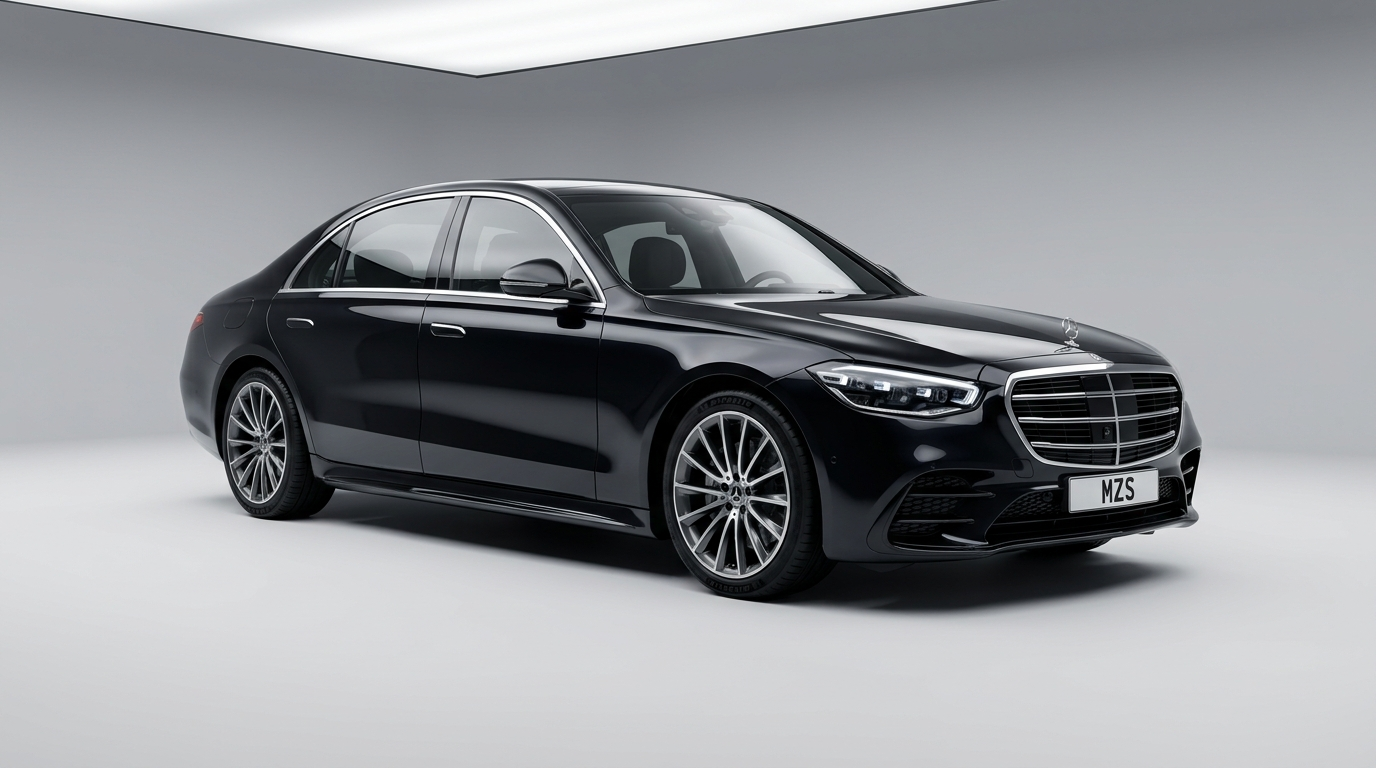
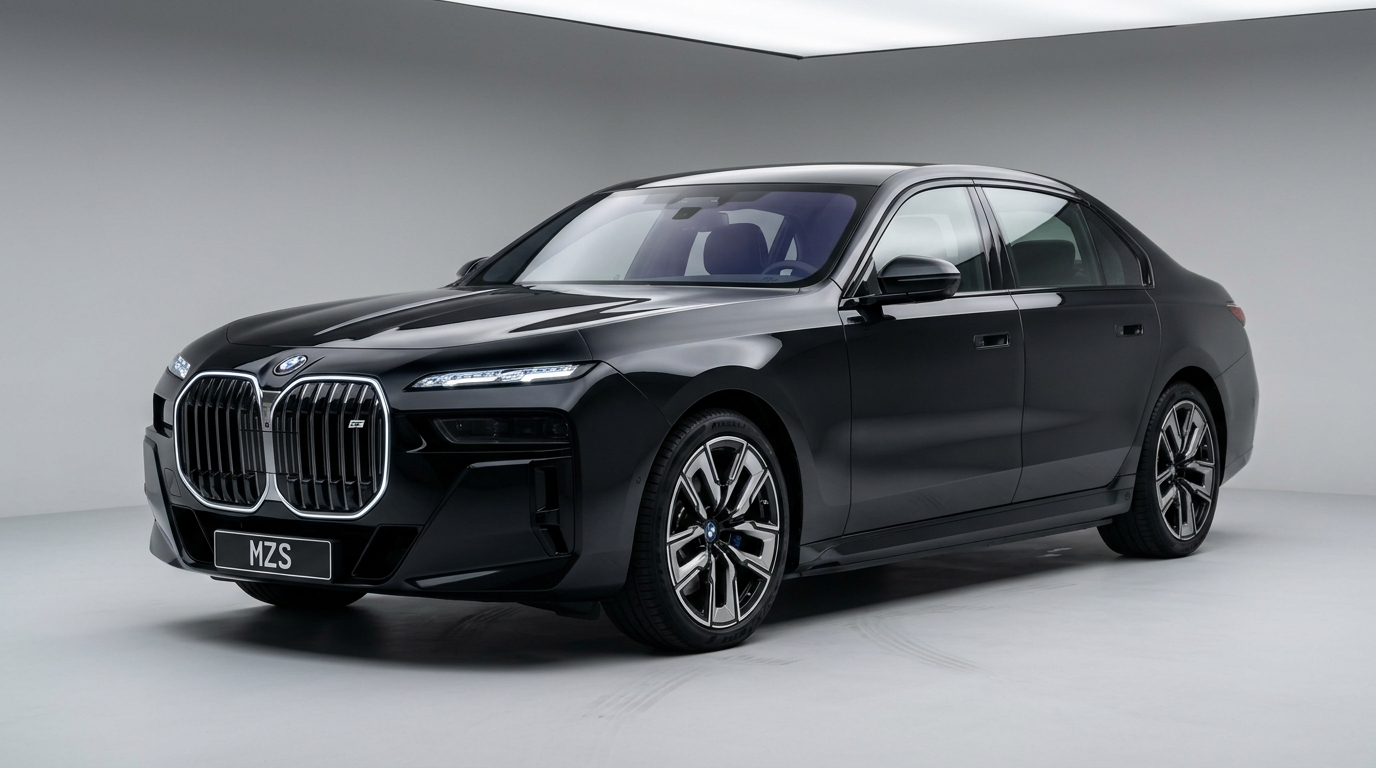
feat(fleet): replace Mercedes with 2026 BMW i7 on First Class across service classes, modals, and limousine pages

diff --git a/src/pages/LimousineServicePage.tsx b/src/pages/LimousineServicePage.tsx
@@ -15,7 +15,7 @@ export const LimousineServicePage: React.FC<LimousineServicePageProps> = ({ onSe
   const limoFaqs = [
     {
       q: 'What is considered a luxury limousine service with MZS Executive Chauffeurs?',
-      a: 'At MZS Executive Chauffeurs, limousine service means pristine executive sedans (such as the Mercedes-Benz S-Class, BMW 7 Series, Audi A8) and spacious luxury SUVs (Cadillac Escalade, Lincoln Navigator) driven by commercially certified chauffeurs in tailored business suits, rather than stretched novelty limousines.'
+      a: 'At MZS Executive Chauffeurs, limousine service means pristine executive sedans (such as the BMW i7, BMW 7 Series, Audi A8) and spacious luxury SUVs (Cadillac Escalade, Lincoln Navigator) driven by commercially certified chauffeurs in tailored business suits, rather than stretched novelty limousines.'
     },
     {
       q: 'How far in advance can I book a limousine?',
@@ -52,10 +52,10 @@ export const LimousineServicePage: React.FC<LimousineServicePageProps> = ({ onSe
             First-Class Flagship Mobility
           </span>
           <h1 className="text-4xl sm:text-6xl lg:text-7xl font-serif font-normal text-white mb-6 leading-[1.08] tracking-tight">
-            Luxury Limo Service across the United States
+            Luxury Limo Service &amp; Chauffeur Mobility
           </h1>
           <p className="text-lg sm:text-xl text-gray-200 max-w-2xl mx-auto mb-10 font-light leading-relaxed">
-            Mercedes-Benz S-Class, BMW 7 Series, Cadillac Escalade, and flagship prestige vehicles for distinguished arrivals across the USA.
+            BMW i7, BMW 7 Series, Cadillac Escalade, and flagship prestige vehicles for distinguished arrivals across New York and the Northeast corridor.
           </p>
 
           <BookingWidget onSearch={onSearch} />

diff --git a/src/pages/PartnersPage.tsx b/src/pages/PartnersPage.tsx
@@ -12,7 +12,7 @@ export const PartnersPage: React.FC<PartnersPageProps> = ({ onNavigate }) => {
   const [email, setEmail] = useState('');
   const [phone, setPhone] = useState('');
   const [city, setCity] = useState('');
-  const [vehicle, setVehicle] = useState('Mercedes-Benz S-Class');
+  const [vehicle, setVehicle] = useState('BMW i7');
   const [openFaq, setOpenFaq] = useState<number | null>(0);
 
   const handleSubmit = (e: React.FormEvent) => {
@@ -276,7 +276,7 @@ export const PartnersPage: React.FC<PartnersPageProps> = ({ onNavigate }) => {
                     onChange={(e) => setVehicle(e.target.value)}
                     className="w-full px-4 py-3 rounded-xl border border-gray-300 focus:outline-none focus:border-[#0066FF] text-sm bg-white"
                   >
-                    <option value="Mercedes-Benz S-Class">Mercedes-Benz S-Class</option>
+                    <option value="BMW i7">BMW i7</option>
                     <option value="Mercedes-Benz E-Class">Mercedes-Benz E-Class</option>
                     <option value="Cadillac Escalade ESV">Cadillac Escalade ESV / Luxury SUV</option>
                     <option value="Lincoln Navigator L">Lincoln Navigator L</option>

diff --git a/src/constants/data.ts b/src/constants/data.ts
@@ -43,7 +43,7 @@ export const VEHICLE_CLASSES: VehicleClass[] = [
   {
     id: 'first',
     name: 'First Class',
-    models: 'New 2026 Mercedes-Benz S-Class, BMW 7 Series, Audi A8 or similar',
+    models: 'New 2026 BMW i7, BMW 7 Series, Audi A8 or similar',
     image: '/assets/vehicles/first-class.jpg',
     passengers: 3,
     luggage: 2,
@@ -54,11 +54,11 @@ export const VEHICLE_CLASSES: VehicleClass[] = [
     currency: 'USD',
     description: 'Uncompromising luxury for special occasions, high-profile executives, and VIP hospitality.',
     features: [
-      'Top-tier flagship luxury vehicles',
+      'New 2026 BMW i7 flagship luxury sedan',
       'VIP meet & greet inside airport terminal',
       'Complimentary 60 minutes airport wait time',
       'Highest chauffeur vetting rating',
-      'Onboard phone fast-chargers and personalized cabin temperature'
+      'Executive lounge seating with whisper-quiet cabin'
     ]
   },
   {
